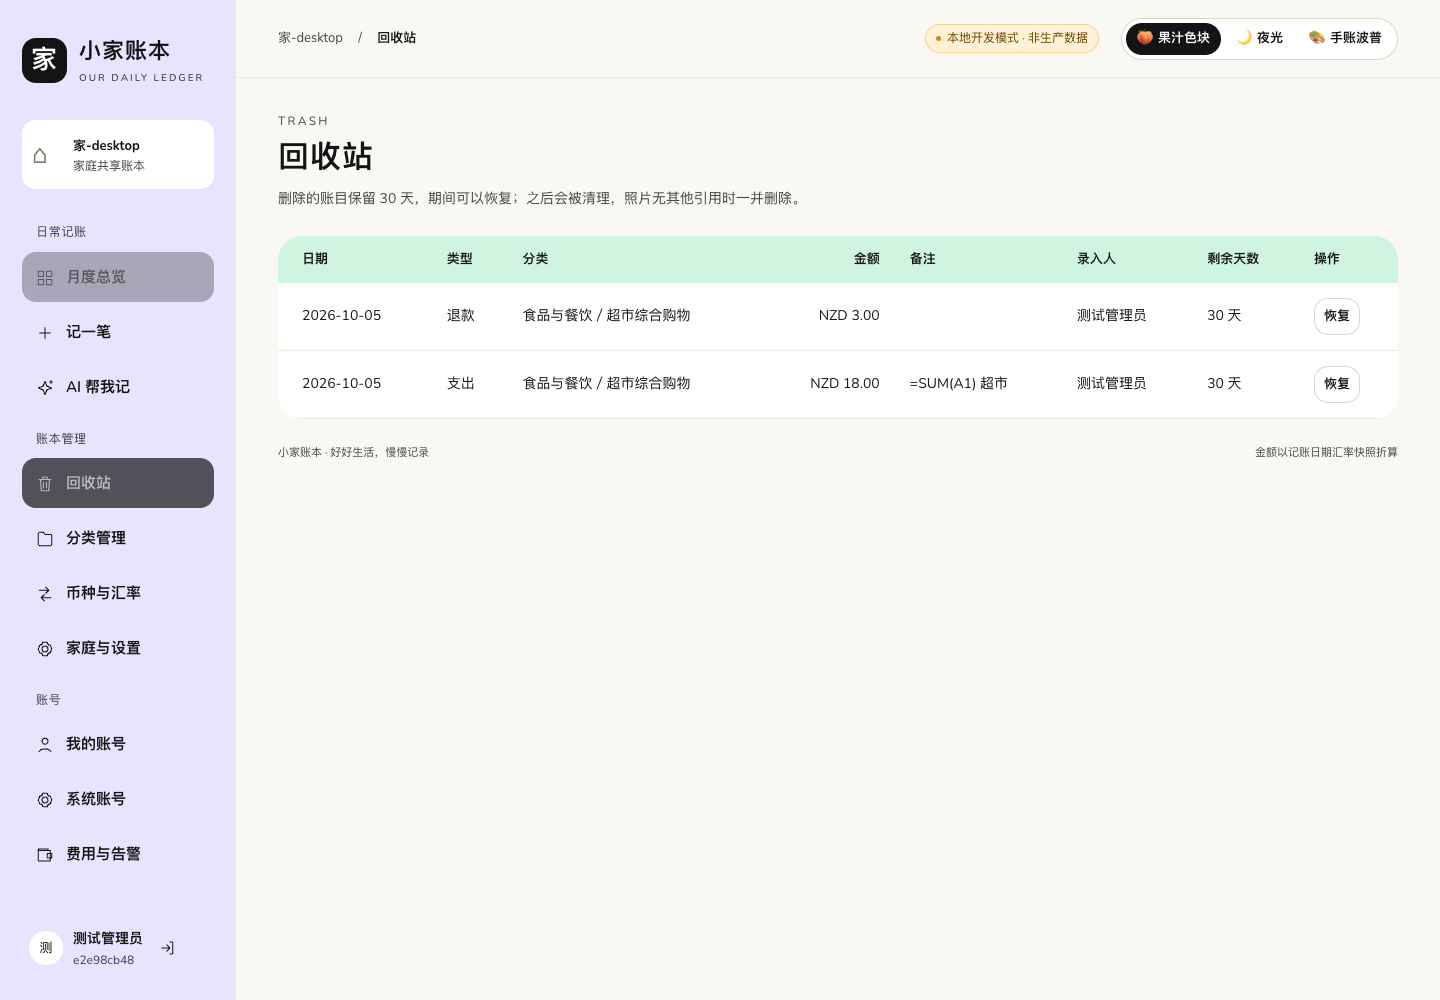
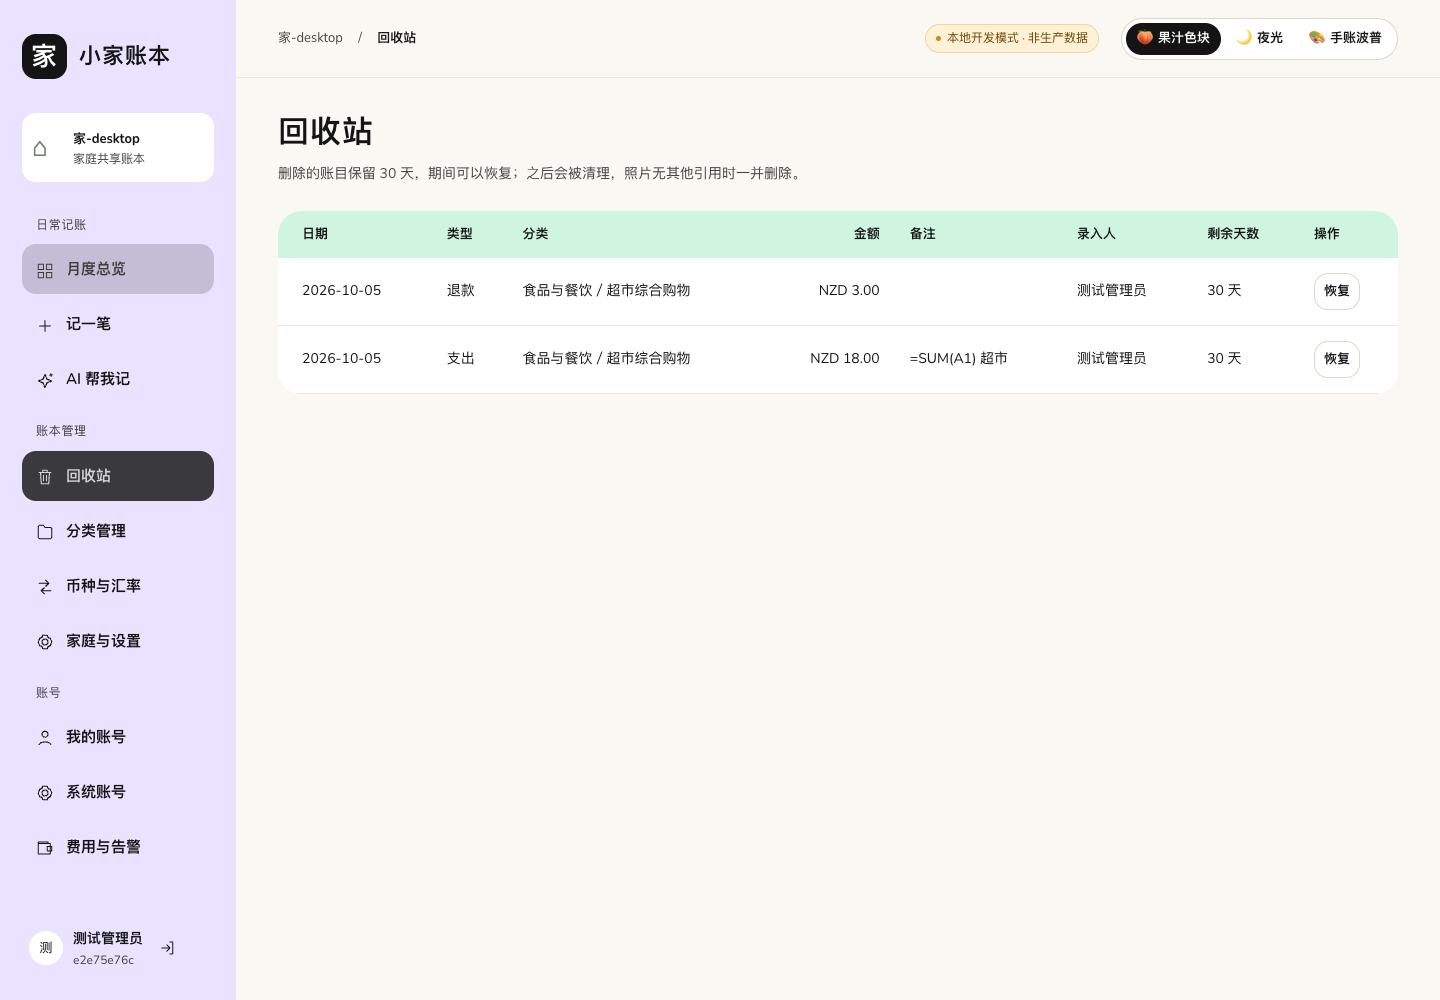
Design pass: remove template chrome, plain page titles, restrained motion
- Drop English all-caps eyebrows, the brand tagline and the currency kicker
- Page titles name the page; subtitles say what you can do there
- Remove page-enter animation, button hover lift and decorative hero rings
- Remove the footer slogan/duplicate note; fix the faint actions header in pop
- Larger theme-switch touch targets and readable table rows on phones

diff --git a/frontend/src/pages/Dashboard.tsx b/frontend/src/pages/Dashboard.tsx
@@ -74,9 +74,8 @@ export default function Dashboard() {
   return (
     <>
       <PageHeading
-        eyebrow="A LITTLE LOOK AT OUR MONTH"
-        title="生活的每一笔，都在这里。"
-        subtitle="一起记录收入与开销，也给生活留一点余地。"
+        title="月度总览"
+        subtitle="这个月花在哪里、怎么付的；点任意一笔可以查看或修改。"
         actions={
           <>
             <div className="month-picker">
@@ -95,7 +94,6 @@ export default function Dashboard() {
           <section className="dashboard-top" aria-label="本月概览">
             <article className="card spending-hero">
               <div className="card-label">本月净支出 <Icon name="wallet" /></div>
-              <div className="currency-kicker">NEW ZEALAND DOLLAR</div>
               <div className="number"><small>$</small>{money(s.totals.net_expense.nzd)}</div>
               <div className="secondary-amount">合 CNY ¥ {money(s.totals.net_expense.cny)}</div>
               <div className="card-footnote"><span className="dot"></span>消费 ${money(s.totals.expense_gross.nzd)} · 退款 ${money(s.totals.refund.nzd)}</div>
@@ -179,7 +177,7 @@ export default function Dashboard() {
                   <tr>
                     <th>日期</th><th>类型</th><th>一级分类</th><th>二级分类</th><th>币种</th>
                     <th className="numeric">原始金额</th><th className="numeric">合 NZD</th><th className="numeric">合 CNY</th>
-                    <th>备注</th><th>方式</th><th>录入人</th><th><span className="sub-label">操作</span></th>
+                    <th>备注</th><th>方式</th><th>录入人</th><th>操作</th>
                   </tr>
                 </thead>
                 <tbody>

diff --git a/frontend/src/styles/theme.css b/frontend/src/styles/theme.css
@@ -255,3 +255,14 @@ html[data-theme] #record-dialog input,html[data-theme] #record-dialog select,htm
 html[data-theme] #record-dialog .tiny-note{color:var(--muted)}
 html[data-theme] #record-dialog .conversion-strip{background:var(--surface-2);color:var(--muted)}
 html[data-theme] #record-dialog .conversion-strip strong{color:var(--ink)}
+
+/* ── 克制动效与装饰（2026-10-05 设计审视） ──
+   去掉每次换页的淡入上移、所有按钮悬停上浮、净支出卡片上的同心圆装饰：不服务任何信息或操作。
+   保留由操作触发的反馈（切换风格的颜色过渡、对话框、提示条）。 */
+html[data-theme] main{animation:none}
+html[data-theme] .button:hover{transform:none}
+html[data-theme] .spending-hero:after{display:none}
+/* 触控目标：手机上风格切换按钮不小于 40px */
+@media(max-width:650px){.theme-switch button{min-height:40px;min-width:40px;justify-content:center}}
+/* 手机明细表：备注列给最小宽度，避免被挤成一字一行把每行撑得很高（表格本身可横向滚动） */
+@media(max-width:650px){html[data-theme] td.note-cell{min-width:150px}html[data-theme] td{padding:12px 12px}}

diff --git a/frontend/src/pages/NewEntry.tsx b/frontend/src/pages/NewEntry.tsx
@@ -8,7 +8,7 @@ export default function NewEntry() {
   const navigate = useNavigate();
   return (
     <>
-      <PageHeading eyebrow="ONE ENTRY AT A TIME" title="记下一笔生活。" subtitle="保存即正式入账；折算使用记账日期的汇率快照。" />
+      <PageHeading title="记一笔" subtitle="保存后直接入账，按记账日期的汇率折算成纽币和人民币。" />
       <div className="two-column">
         <section className="card">
           <EntryForm mode="create" onCancel={() => navigate(`/f/${fam.fid}`)}
@@ -16,7 +16,6 @@ export default function NewEntry() {
         </section>
         <aside>
           <section className="card aside-note">
-            <div className="eyebrow">THE LITTLE DETAILS</div>
             <h3>清楚记录，轻松回看。</h3>
             <p>保留原币金额，自动折算为纽币和人民币。每笔账目使用记账日期的汇率，以后回看也不会随汇率变化。</p>
             <p className="tiny-note">退款请在月度总览中打开原消费，点击“退款”，系统会关联原消费并检查可退金额。</p>

diff --git a/frontend/src/pages/Categories.tsx b/frontend/src/pages/Categories.tsx
@@ -26,7 +26,7 @@ export default function Categories() {
   const base = `/families/${fam.fid}/categories`;
   return (
     <>
-      <PageHeading eyebrow="A PLACE FOR EVERY LITTLE THING" title="给每一笔，找个位置。" subtitle="改名或移动会同步更新历史账目的显示，金额与汇率不变。"
+      <PageHeading title="分类管理" subtitle="改名或移动会同步更新历史账目的显示，金额与汇率不变。"
         actions={isAdmin ? <button className="button primary" onClick={() => { setValue(""); setEdit({ cat: { category_id: "", kind: kind as Category["kind"], name: "", status: "active", sort: 0, version: 1 }, mode: "add" }); }}><Icon name="plus" />新增一级分类</button> : undefined} />
       <div className="notice"><Icon name="info" /><div>已被账目使用的分类不能直接删除：请先合并到其他分类，或停用（历史仍可查看，新账目不能选择）。{!isAdmin && " 只有家庭管理员可以修改分类。"}</div></div>
       <div className="tabs kind-tabs">

diff --git a/frontend/src/components/Layout.tsx b/frontend/src/components/Layout.tsx
@@ -47,7 +47,7 @@ function Shell({ breadcrumb, familyName, children, fid }: { breadcrumb: string; 
       <aside className="sidebar">
         <a className="brand" href="/">
           <span className="brand-mark">家</span>
-          <span>小家账本<small>OUR DAILY LEDGER</small></span>
+          <span>小家账本</span>
         </a>
         <label className="family-switch">
           <span className="family-avatar">⌂</span>
@@ -110,10 +110,6 @@ function Shell({ breadcrumb, familyName, children, fid }: { breadcrumb: string; 
           </div>
         </header>
         <main>{children}</main>
-        <footer className="site-footer">
-          <span>小家账本 · 好好生活，慢慢记录</span>
-          <span>金额以记账日期汇率快照折算</span>
-        </footer>
       </div>
       {more && (
         <Modal title="更多" onClose={() => setMore(false)}>

diff --git a/frontend/src/pages/AiEntry.tsx b/frontend/src/pages/AiEntry.tsx
@@ -220,7 +220,7 @@ export default function AiEntry() {
   const b = batch.data;
   return (
     <>
-      <PageHeading eyebrow="LESS TYPING, MORE LIVING" title="说一句，帮你记好。" subtitle="你负责生活，AI 帮你整理。确认之后，才会记入账本。" />
+      <PageHeading title="AI 帮我记" subtitle="说一句话或拍一张小票，AI 整理成账目，你确认后才会入账。" />
       <div className="two-column">
         <section className="card">
           {!b && (
@@ -293,7 +293,6 @@ export default function AiEntry() {
         </section>
         <aside>
           <section className="card aside-note">
-            <div className="eyebrow">OPEN BATCHES</div>
             <h3>未处理的识别</h3>
             {batches.data?.items.length === 0 && <p className="muted">暂无。</p>}
             {batches.data?.items.map((x) => (

diff --git a/frontend/src/components/common.tsx b/frontend/src/components/common.tsx
@@ -2,11 +2,11 @@ import { useCallback, useEffect, useRef, useState, type ReactNode } from "react"
 import { ApiError, UnknownOutcome, api, newKey } from "../api/client";
 import { Icon } from "./Icon";
 
-export function PageHeading({ eyebrow, title, subtitle, actions }: { eyebrow: string; title: string; subtitle?: string; actions?: ReactNode }) {
+/** 页面标题：直接写页面名称，副标题说明这页能做什么（不加装饰性的英文眉标）。 */
+export function PageHeading({ title, subtitle, actions }: { eyebrow?: string; title: string; subtitle?: string; actions?: ReactNode }) {
   return (
     <div className="page-heading">
       <div>
-        <div className="eyebrow">{eyebrow}</div>
         <h1>{title}</h1>
         {subtitle && <p>{subtitle}</p>}
       </div>

diff --git a/frontend/src/pages/Login.tsx b/frontend/src/pages/Login.tsx
@@ -47,7 +47,7 @@ export function Login() {
     <div className="auth-page">
       <div className="auth-theme"><ThemeSwitcher /></div>
       <form className="card auth-card" onSubmit={submit}>
-        <div className="brand"><span className="brand-mark">家</span><span>小家账本<small>OUR DAILY LEDGER</small></span></div>
+        <div className="brand"><span className="brand-mark">家</span><span>小家账本</span></div>
         <h1>登录</h1>
         {env === "local" && <p className="preview-tag local-tag"><i></i>本地开发模式</p>}
         <label className="field">登录名<input autoComplete="username" value={loginName} onChange={(e) => setLoginName(e.target.value)} required /></label>

diff --git a/frontend/src/pages/Trash.tsx b/frontend/src/pages/Trash.tsx
@@ -22,7 +22,7 @@ export default function Trash() {
 
   return (
     <>
-      <PageHeading eyebrow="TRASH" title="回收站" subtitle="删除的账目保留 30 天，期间可以恢复；之后会被清理，照片无其他引用时一并删除。" />
+      <PageHeading title="回收站" subtitle="删除的账目保留 30 天，期间可以恢复；之后会被清理，照片无其他引用时一并删除。" />
       <ErrorNotice error={error ?? action.error} onRetry={reload} />
       <UnknownPanel action={action as never} onCommitted={() => void reload()} onRetry={() => { if (pending.current) void restore(pending.current); }} />
       <section className="card ledger-card">

diff --git a/frontend/src/pages/AdminUsers.tsx b/frontend/src/pages/AdminUsers.tsx
@@ -20,7 +20,7 @@ export default function AdminUsers() {
 
   return (
     <PlainShell title="系统账号">
-      <PageHeading eyebrow="SYSTEM ADMIN" title="系统账号" subtitle="没有公开注册。系统管理员创建账号并私下交付临时密码；首次登录必须修改。" />
+      <PageHeading title="系统账号" subtitle="没有公开注册。系统管理员创建账号并私下交付临时密码；首次登录必须修改。" />
       <ErrorNotice error={users.error ?? action.error} />
       {secret && (
         <div className="notice secret-notice" role="alert">

diff --git a/frontend/src/pages/Families.tsx b/frontend/src/pages/Families.tsx
@@ -33,7 +33,7 @@ export default function Families() {
 
   return (
     <PlainShell title="我的家庭">
-      <PageHeading eyebrow="OUR HOMES" title="选择一个家庭账本。" subtitle="一个账号可以加入多个家庭；每个家庭的账目彼此独立。" />
+      <PageHeading title="选择家庭" subtitle="一个账号可以加入多个家庭；每个家庭的账目彼此独立。" />
       <div className="settings-grid">
         <section className="card">
           <div className="section-head"><h2>我的家庭</h2></div>
